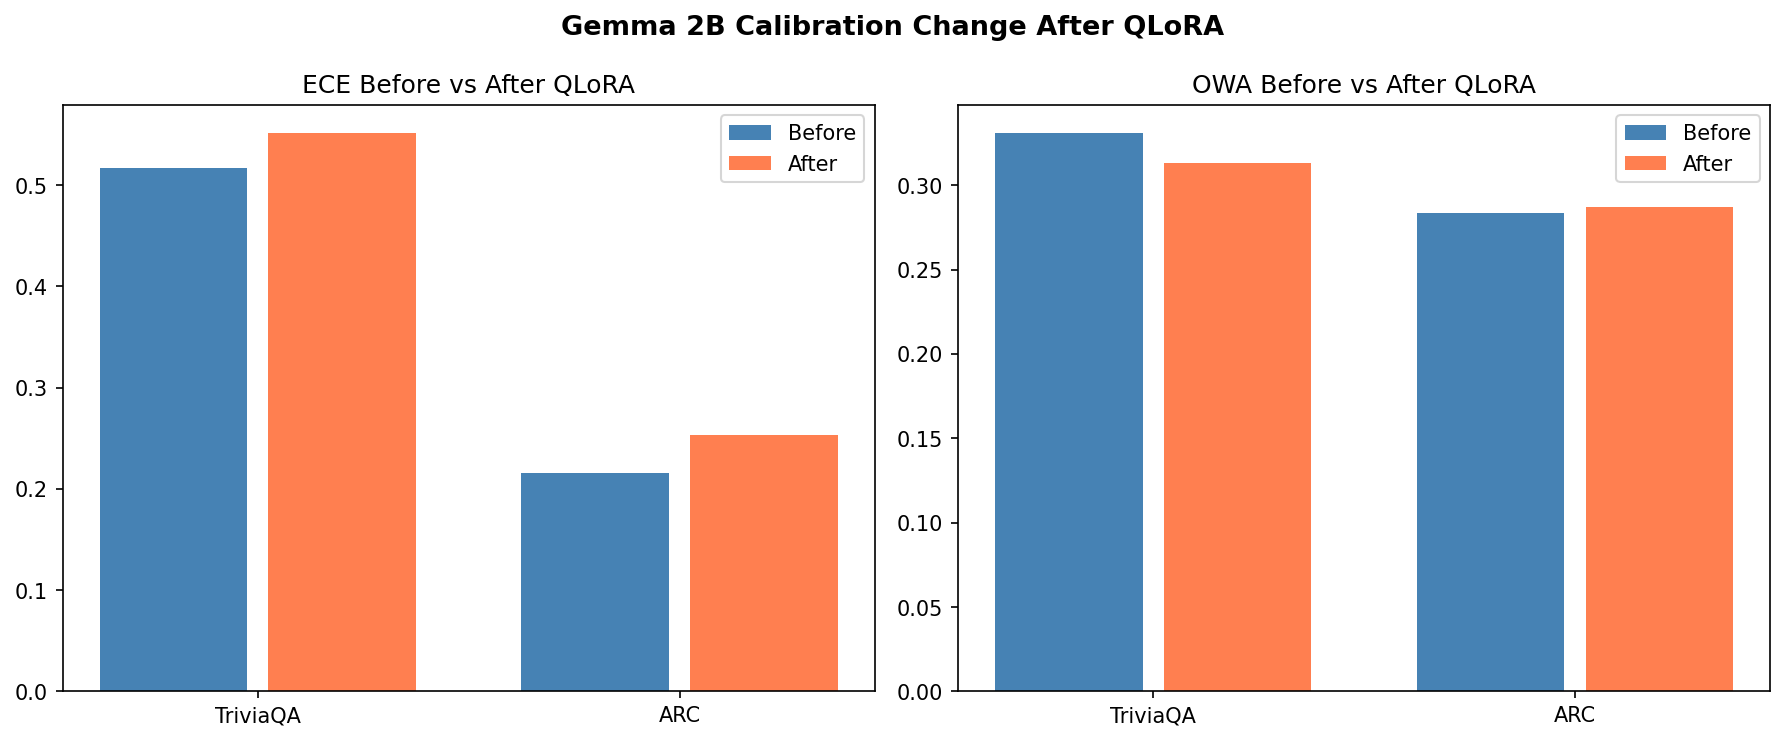
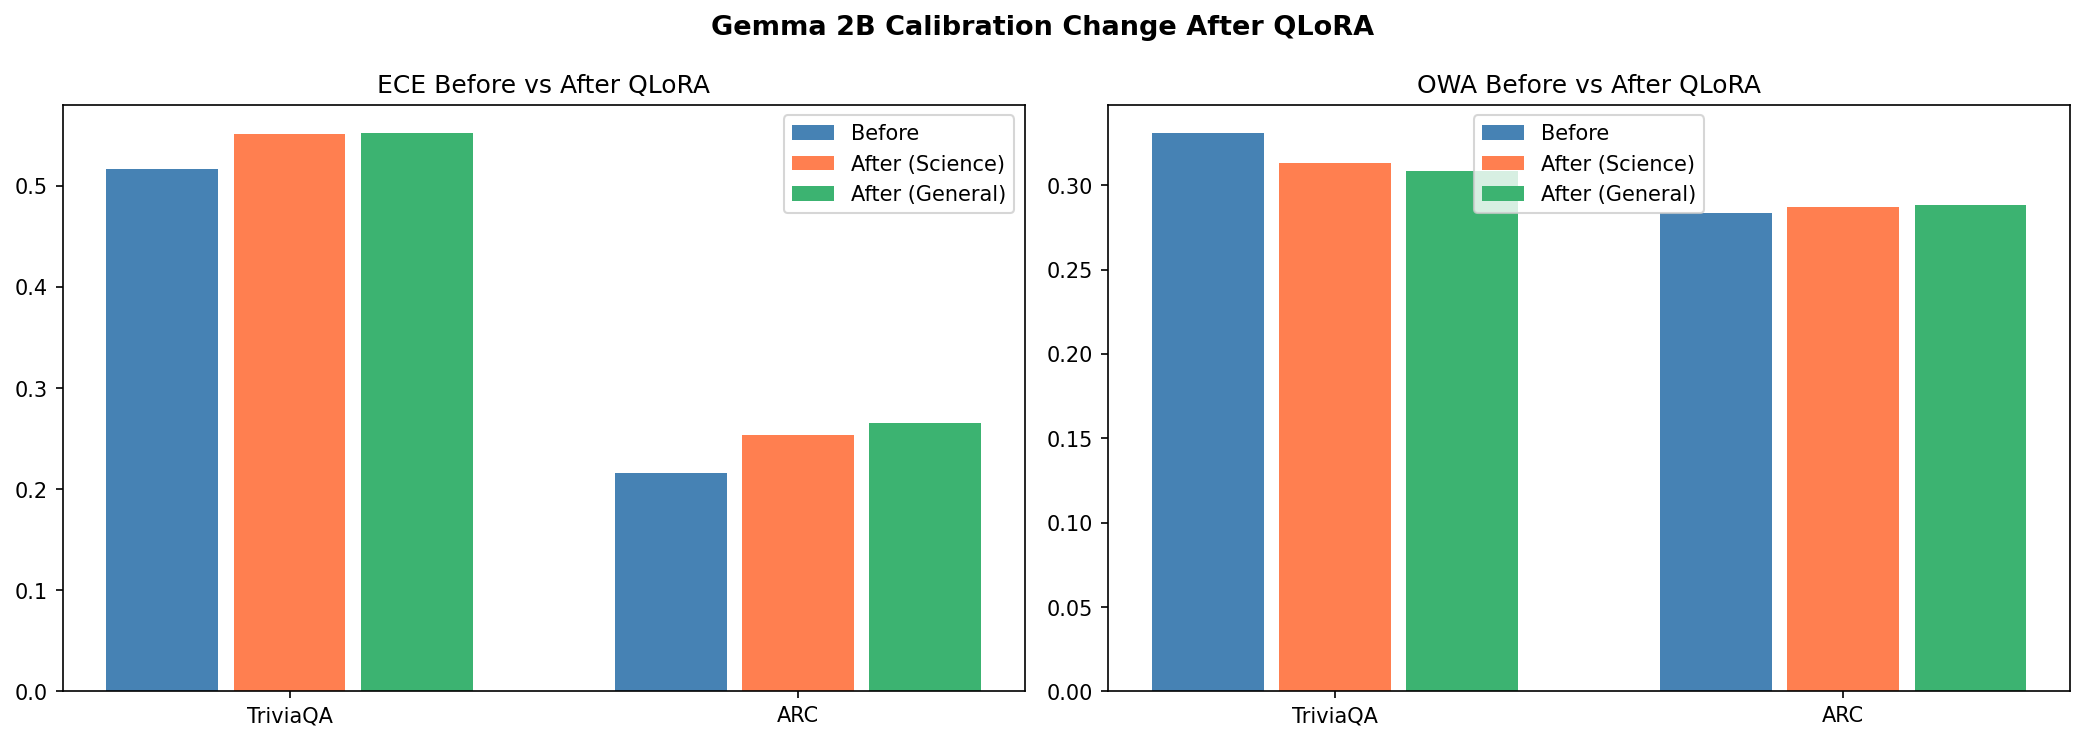
Final: all experiment results, figures, and scripts

diff --git a/generate_plots.py b/generate_plots.py
@@ -1,0 +1,69 @@
+import matplotlib.pyplot as plt
+
+def plot_pareto_frontier():
+    """Generates the Accuracy vs ECE Pareto Frontier for ARC Dataset"""
+    plt.figure(figsize=(7, 5.5))
+    plt.rcParams['font.family'] = 'serif'
+    
+    # Data vectors from your findings
+    # Format: (ECE, Accuracy, Label)
+    data = [
+        (0.2157, 0.504, 'Baseline (Un-tuned)'),
+        (0.2761, 0.566, 'QLoRA (r=8)'),
+        (0.2536, 0.548, 'QLoRA (r=16)'),
+        (0.2307, 0.532, 'QLoRA (r=32)'),
+        (0.2379, 0.548, 'QLoRA (r=16 + T=0.5)')
+    ]
+    
+    for ece, acc, label in data:
+        color = 'red' if 'r=8' in label else ('green' if 'Baseline' in label else 'blue')
+        marker = 'X' if 'T=' in label else 'o'
+        plt.scatter(ece, acc, color=color, s=120, zorder=3, marker=marker)
+        plt.text(ece + 0.002, acc + 0.002, label, fontsize=10, fontweight='medium')
+
+    plt.xlabel('Expected Calibration Error (ECE) → [Lower is Better]', fontsize=11)
+    plt.ylabel('Model Accuracy → [Higher is Better]', fontsize=11)
+    plt.title('The Accuracy-Calibration Trade-off Frontier (ARC)', fontsize=12, fontweight='bold', pad=15)
+    plt.grid(True, linestyle='--', alpha=0.5)
+    plt.tight_layout()
+    plt.savefig('arc_pareto_frontier.png', dpi=300)
+    plt.close()
+
+def plot_dual_axis_trends():
+    """Generates the crossing-line trend plot showing Rank vs ECE/Acc"""
+    ranks = [0, 8, 16, 32] # 0 represents Baseline
+    ece_vals = [0.2157, 0.2761, 0.2536, 0.2307]
+    acc_vals = [0.504, 0.566, 0.548, 0.532]
+    
+    fig, ax1 = plt.subplots(figsize=(7, 5))
+    plt.rcParams['font.family'] = 'serif'
+    
+    # Left Axis: Accuracy
+    color = 'tab:blue'
+    ax1.set_xlabel('LoRA Rank ($r$)', fontsize=11)
+    ax1.set_ylabel('Accuracy', color=color, fontsize=11)
+    line1 = ax1.plot(ranks, acc_vals, color=color, marker='o', linewidth=2.5, label='Accuracy')
+    ax1.tick_params(axis='y', labelcolor=color)
+    ax1.set_xticks(ranks)
+    ax1.set_xticklabels(['Baseline', 'r=8', 'r=16', 'r=32'])
+    
+    # Right Axis: ECE
+    ax2 = ax1.twinx()
+    color = 'tab:red'
+    ax2.set_ylabel('ECE (Error)', color=color, fontsize=11)
+    line2 = ax2.plot(ranks, ece_vals, color=color, marker='s', linewidth=2.5, linestyle='--', label='ECE')
+    ax2.tick_params(axis='y', labelcolor=color)
+    
+    # Add combined legends
+    lines = line1 + line2
+    labels = [l.get_label() for l in lines]
+    ax1.legend(lines, labels, loc='upper center')
+    
+    plt.title('Dynamic Impact of LoRA Rank Scale on Calibration vs Performance', fontsize=12, fontweight='bold', pad=15)
+    plt.tight_layout()
+    plt.savefig('rank_tradeoff_trends.png', dpi=300)
+    plt.close()
+
+if __name__ == '__main__':
+    plot_pareto_frontier()
+    plot_dual_axis_trends()

diff --git a/plot.py b/plot.py
@@ -1,17 +1,21 @@
 import pandas as pd, matplotlib.pyplot as plt, numpy as np
 
-before = pd.read_csv('results_before.csv')
-after  = pd.read_csv('results_after.csv')
+before   = pd.read_csv('results_before.csv')
+after_s  = pd.read_csv('results_after.csv')         # science finetune
+after_g  = pd.read_csv('results_after_general.csv') # general finetune
+
 domains = [l.split('_')[0] for l in before['label']]
 x = np.arange(len(domains))
 
-fig, axes = plt.subplots(1,2,figsize=(12,5))
+fig, axes = plt.subplots(1,2,figsize=(14,5))
 for ax, metric, title in zip(axes, ['ECE','OWA'],
     ['ECE Before vs After QLoRA','OWA Before vs After QLoRA']):
-    ax.bar(x-0.2, before[metric], 0.35, label='Before', color='steelblue')
-    ax.bar(x+0.2, after[metric],  0.35, label='After',  color='coral')
+    ax.bar(x-0.25, before[metric],  0.22, label='Before',          color='steelblue')
+    ax.bar(x,      after_s[metric], 0.22, label='After (Science)',  color='coral')
+    ax.bar(x+0.25, after_g[metric], 0.22, label='After (General)', color='mediumseagreen')
     ax.set_xticks(x); ax.set_xticklabels(domains)
     ax.set_title(title); ax.legend()
+
 plt.suptitle('Gemma 2B Calibration Change After QLoRA', fontsize=13, fontweight='bold')
 plt.tight_layout()
 plt.savefig('calibration_results.png', dpi=150, bbox_inches='tight')

diff --git a/finetune.py b/finetune.py
@@ -1,20 +1,19 @@
 # finetune.py
 import torch
 from transformers import AutoModelForCausalLM, AutoTokenizer, TrainingArguments
-from peft import LoraConfig, get_peft_model, prepare_model_for_kbit_training
+from peft import LoraConfig, get_peft_model
 from datasets import load_dataset
 from trl import SFTTrainer
 
-MODEL  = 'D:\\hf_cache\\gemma2b'
-DOMAIN = 'science'
-OUT    = f'./checkpoints/gemma2b_{DOMAIN}'
+MODEL  = 'google/gemma-2-2b'
+OUT = './checkpoints/gemma2b_r32'
 
 model = AutoModelForCausalLM.from_pretrained(
     MODEL, torch_dtype=torch.float16, device_map='auto')
 tokenizer = AutoTokenizer.from_pretrained(MODEL)
 tokenizer.pad_token = tokenizer.eos_token
 
-lora_config = LoraConfig(r=16, lora_alpha=32,
+lora_config = LoraConfig(r=32, lora_alpha=64,
     target_modules=['q_proj','k_proj','v_proj','o_proj'],
     lora_dropout=0.05, bias='none', task_type='CAUSAL_LM')
 model = get_peft_model(model, lora_config)
@@ -39,4 +38,4 @@ trainer = SFTTrainer(model=model, tokenizer=tokenizer, train_dataset=ds,
 
 trainer.train()
 model.save_pretrained(OUT)
-print(f'Done. Set MODEL_PATH={OUT} and PHASE=after in evaluate.py')
+print('Done. r=8 checkpoint saved.')

diff --git a/evaluate.py b/evaluate.py
@@ -4,8 +4,8 @@ from datasets import load_dataset
 from calibration import full_report
 from tqdm import tqdm
 
-MODEL_PATH = 'D:\\hf_cache\\gemma2b'   # before: base model | after: checkpoint path
-PHASE      = 'before'              # 'before' or 'after'
+MODEL_PATH = './checkpoints/gemma2b_r32'
+PHASE      = 'after_after'             # 'before' or 'after'
 N          = 500
 
 def score(model, tokenizer, question, choices):
@@ -39,7 +39,7 @@ def eval_arc(model, tok):
         cs.append(conf); ks.append(int(pred==ans))
     return full_report(cs, ks, f'ARC_{PHASE}')
 
-tokenizer = AutoTokenizer.from_pretrained(MODEL_PATH)
+tokenizer = AutoTokenizer.from_pretrained('google/gemma-2-2b')
 model = AutoModelForCausalLM.from_pretrained(MODEL_PATH, load_in_4bit=True, device_map='auto')
 model.eval()
 